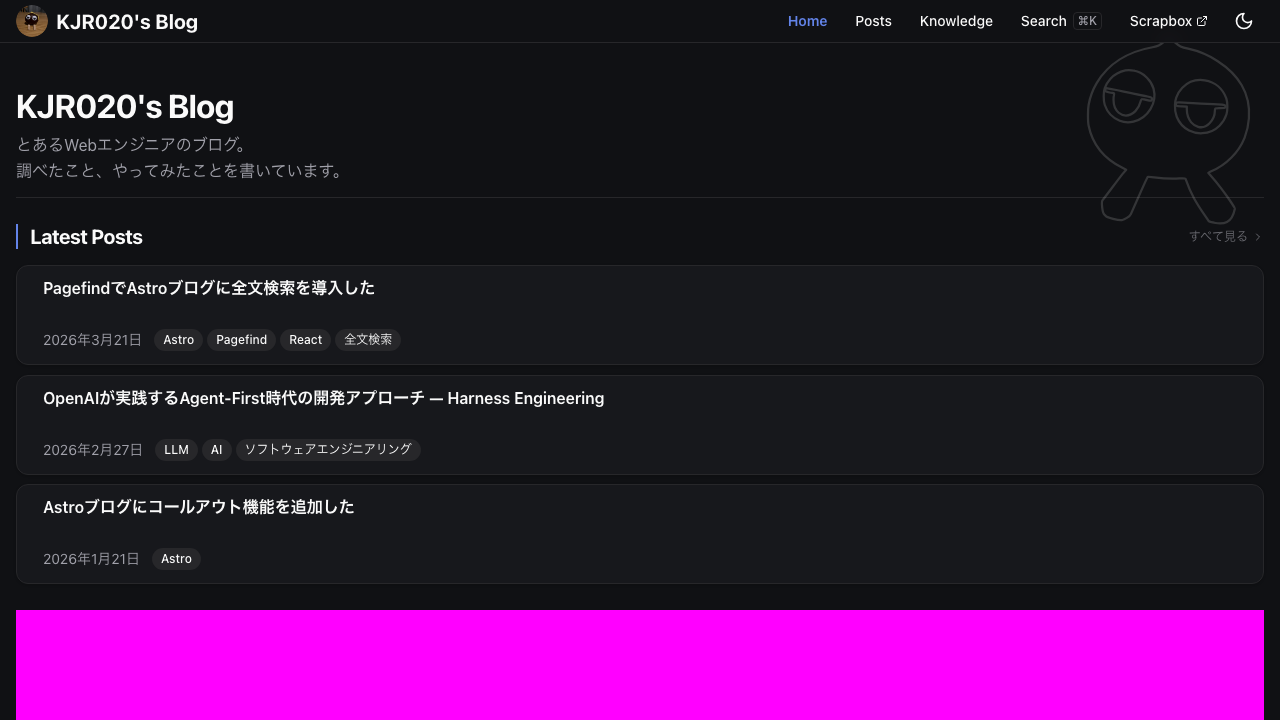
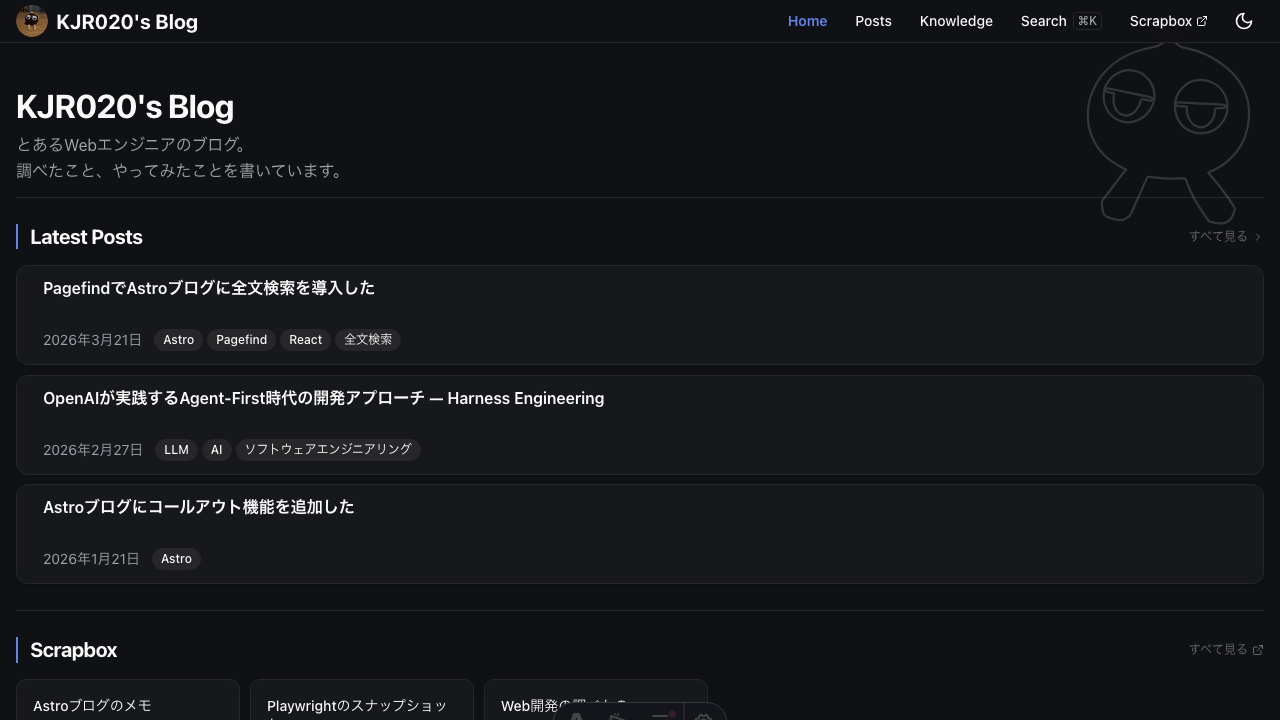
test: mock Scrapbox data in homepage snapshots

Changed region(s): [[0.0, 0.825, 1.0, 1.0]]

diff --git a/e2e/snapshot.spec.ts b/e2e/snapshot.spec.ts
@@ -1,6 +1,40 @@
-import { test } from "playwright/test";
+import { type Page, test } from "playwright/test";
+import type { ScrapboxPageData } from "../src/types/scrapbox";
 import type { PageConfig } from "./helpers/snapshot";
 import { capturePageSnapshot } from "./helpers/snapshot";
+
+const scrapboxPages: ScrapboxPageData[] = [
+  {
+    id: "astro-blog-notes",
+    title: "Astroブログのメモ",
+    imageUrl: null,
+    description: "Astroで調べたことや試したことのメモ。",
+    updatedAt: "2026-03-10T12:00:00.000Z",
+    url: "https://scrapbox.io/KJR020/Astroブログのメモ",
+  },
+  {
+    id: "playwright-snapshots",
+    title: "Playwrightのスナップショット",
+    imageUrl: null,
+    description: "画像比較を安定させるために確認したこと。",
+    updatedAt: "2026-02-24T12:00:00.000Z",
+    url: "https://scrapbox.io/KJR020/Playwrightのスナップショット",
+  },
+  {
+    id: "web-development-notes",
+    title: "Web開発の調べもの",
+    imageUrl: null,
+    description: "日々の開発で気になったことを残しています。",
+    updatedAt: "2026-01-18T12:00:00.000Z",
+    url: "https://scrapbox.io/KJR020/Web開発の調べもの",
+  },
+];
+
+async function mockScrapboxApi(page: Page): Promise<void> {
+  await page.route(/\/api\/pages\/KJR020(?:\?.*)?$/, async (route) => {
+    await route.fulfill({ json: scrapboxPages });
+  });
+}
 
 const staticPages: PageConfig[] = [
   { route: "/", name: "index", hasIslands: true },
@@ -24,16 +58,14 @@ test.describe("静的ページのスナップショット", () => {
   for (const pageConfig of staticPages) {
     for (const theme of themes) {
       test(`${pageConfig.name} - ${theme}`, async ({ page }) => {
-        const mask =
-          pageConfig.route === "/"
-            ? [page.locator("section", { hasText: "Scrapbox" })]
-            : undefined;
+        if (pageConfig.route === "/") {
+          await mockScrapboxApi(page);
+        }
 
         await capturePageSnapshot(page, {
           config: pageConfig,
           theme,
           snapshotName: `${pageConfig.name}-${theme}`,
-          mask,
         });
       });
     }